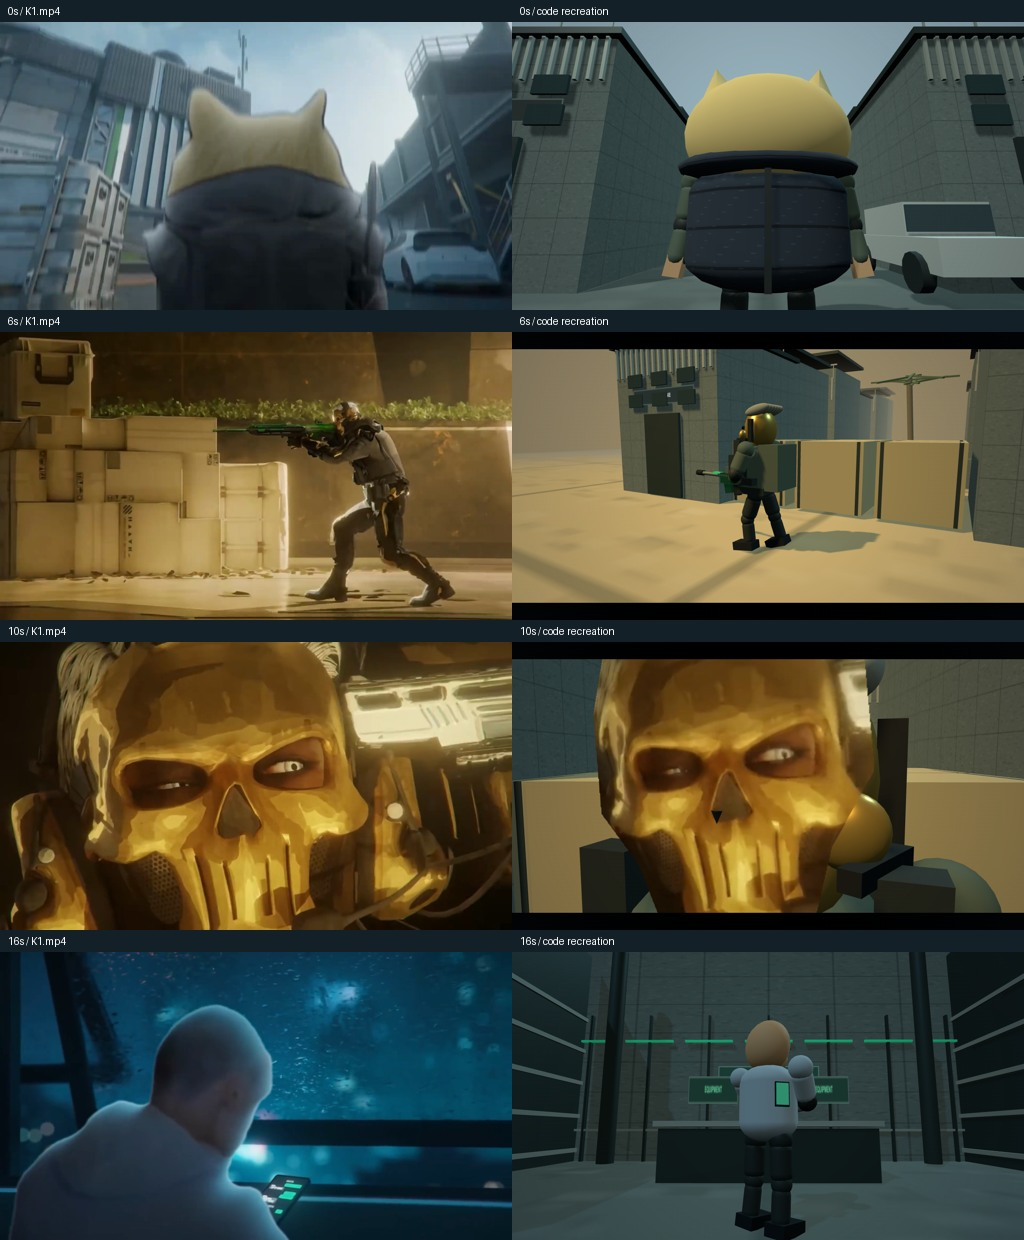
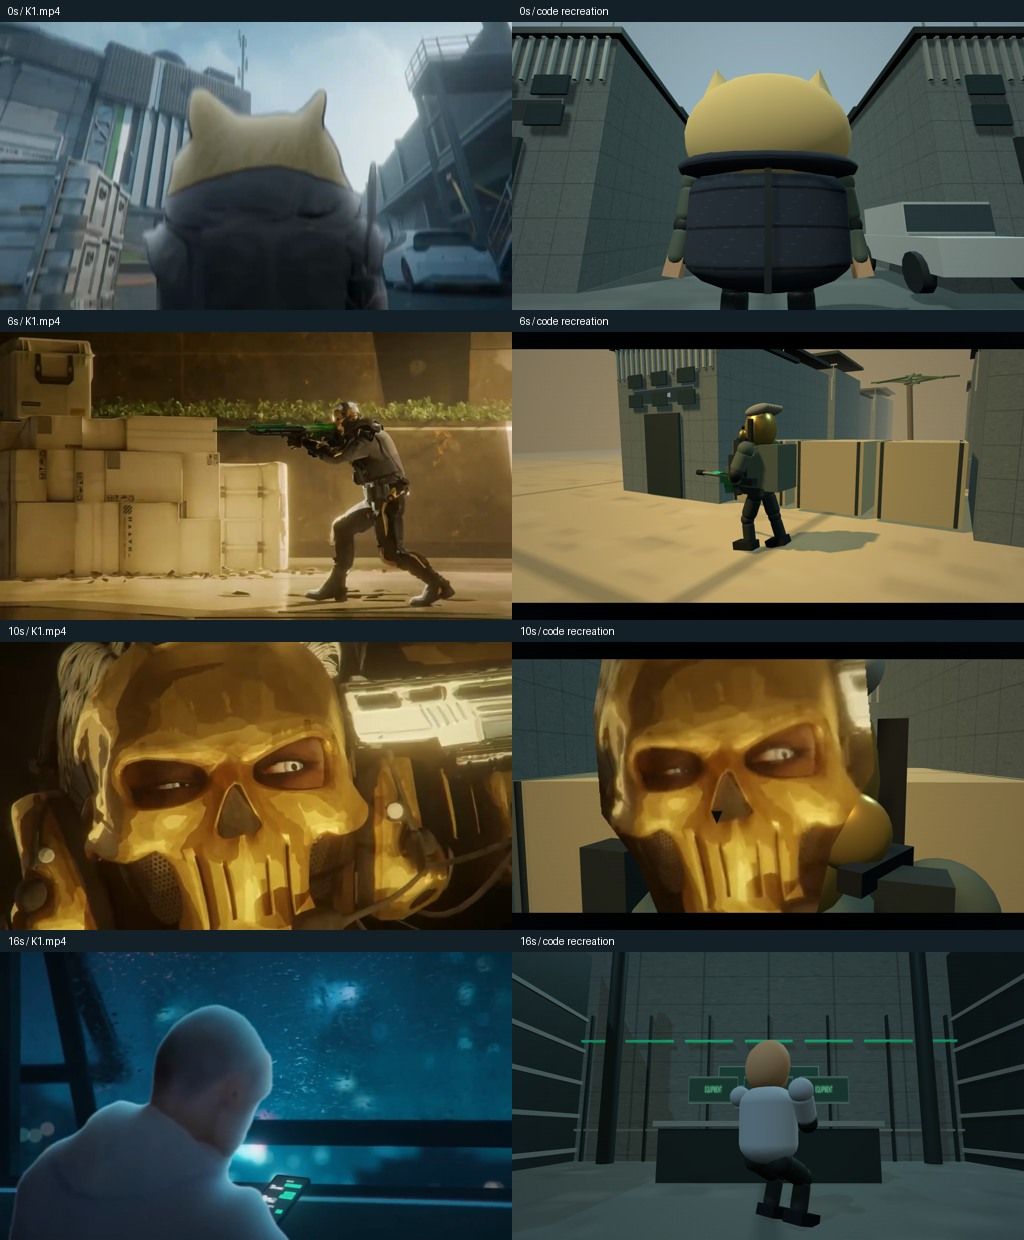
test(cinematic): verify visible playback and reference inserts

Changed region(s): [[0.6875, 0.8274, 0.8125, 1.0]]

diff --git a/scripts/verify-k1.py b/scripts/verify-k1.py
@@ -26,6 +26,8 @@ with sync_playwright() as p:
     page.on('pageerror',lambda e:report['errors'].append(str(e)))
     page.goto(args.base_url+'?inspect=1')
     page.wait_for_function('document.documentElement.dataset.ready==="true"',timeout=60000)
+    for selector in ['#scene','#interface']:
+        assert page.locator(selector).evaluate('(e)=>getComputedStyle(e).opacity')=='1','Rendered canvases must be visible after loading'
     assert page.locator('video,iframe,button').count()==0
     assert not any('K1.mp4' in name for name in page.evaluate('performance.getEntriesByType("resource").map(e=>e.name)'))
     sequence=page.evaluate('''()=>{
@@ -33,6 +35,7 @@ with sync_playwright() as p:
       for(let cycle=0;cycle<2;cycle++) {
         for(let t=0;t<K1.duration;t+=1) {
           const s=K1.seek(t+cycle*K1.duration),metrics=K1.inspect();rendered++;
+          if(s.shot.action==='phone'&&metrics.phoneGripError>.03)errors.push({t,kind:'phoneGrip',error:metrics.phoneGripError});
           if(s.loopBlend===0&&JSON.stringify([...metrics.visibleActors].sort())!==JSON.stringify([...s.shot.cast].sort()))errors.push({t,kind:'cast'});
           for(const joint of metrics.joints)if(Math.abs(joint.length-joint.expected)>1e-6)errors.push({t,kind:'joint',joint});
         }

diff --git a/docs/k1-comparison.md b/docs/k1-comparison.md
@@ -17,7 +17,7 @@ include the original game meshes, rigs, material maps or camera tracks.
 | Movement | Code drives connected limbs, walking, aiming, recoil, jumping, floating, fighting and hand contact. The source's detailed acting and motion capture are not reproduced exactly; action patterns are simplified. |
 | Cameras | Rear, low, wide, weapon and facial views follow the major reference framing. Perspective, framing, depth of field and camera movement differ. |
 | Environments | Warehouse streets, crates, wall, lab reactor, screens, office, hangar and blue space are rebuilt. Geometry and surface detail differ from the original game. |
-| UI | Squad count, phone/chat, loadout, extraction, commander, scope and roster inserts are represented. English labels and representative chat text replace Chinese UI/dialogue; text is not a full verbatim translation. |
+| UI | Squad count, phone/chat, loadout, extraction, commander, scope and roster inserts are represented. The technical diagram reuses its reference graphic with a code-driven zoom. English labels and representative chat text replace Chinese UI/dialogue; text is not a full verbatim translation. |
 | Ending photos | A source-derived printed-photo prop appears in an animated stack. It reuses one photograph rather than the source's varied photograph collection. |
 | Black interval | The source is black at 213.233-216.900. The app deliberately continues visible hangar action for those seconds. |
 | Loop seam | The final 1.133 seconds blend the scene and UI into the opening. This smooth join is an intentional adaptation; the source itself does not have that join. |
@@ -42,8 +42,9 @@ black interval. Source images are on the left, recreated images on the right.
 - [Fight, black-interval adaptation and return](k1-reference/comparison-7.jpg)
 - [Conversation, photo ending and loop adaptation](k1-reference/comparison-8.jpg)
 
-Across all pairs, average absolute RGB difference is **48.21 / 255** (individual
-pairs 21.92-90.10). This includes deliberately adapted frames and measures raw
+Across all pairs, average absolute RGB difference is **46.16 / 255** (individual
+pairs 0.02-90.10). The best-matching frame uses the source's static UI graphic.
+This includes deliberately adapted frames and measures raw
 pixel mismatch, not semantic quality. It confirms that the recreation is visibly
 different and must not be presented as pixel-perfect. Metrics and native checks
 are recorded in [verification.json](k1-reference/verification.json).
@@ -55,6 +56,8 @@ are recorded in [verification.json](k1-reference/verification.json).
   seek mode. Visible character identities and attached rig lengths were checked.
 - The skull operator alone is airborne during the 200.8-second leap; the defending
   operator stays grounded.
+- The seated character's phone stays within 0.018 rig units of the mean hand
+  position, rather than moving independently of the hands.
 - No source-video request, video element, iframe or interactive controls are used.
 - Autoplay produces changing frames. At the infinite-loop join, the final sampled
   render differs from the opening by only **0.33 / 255** mean RGB intensity.
@@ -63,6 +66,8 @@ are recorded in [verification.json](k1-reference/verification.json).
   The displayed animation remains 16:9 and does not cause horizontal scrolling.
 - Reduced motion freezes the opening pose. WebGL fallback is an independent
   GIF; its reduced-motion version is the code-rendered opening PNG.
+- After loading, both canvas layers are visible; screenshot changes verify
+  actual playback rather than relying only on the animation's internal clock.
 - Sampled warmed-up animation-frame intervals averaged about **6.06 ms** in
   headless Chrome on the local NVIDIA RTX 4060 Laptop GPU. This exceeds the 60 fps
   target on this machine. The mobile result is viewport emulation on that same
